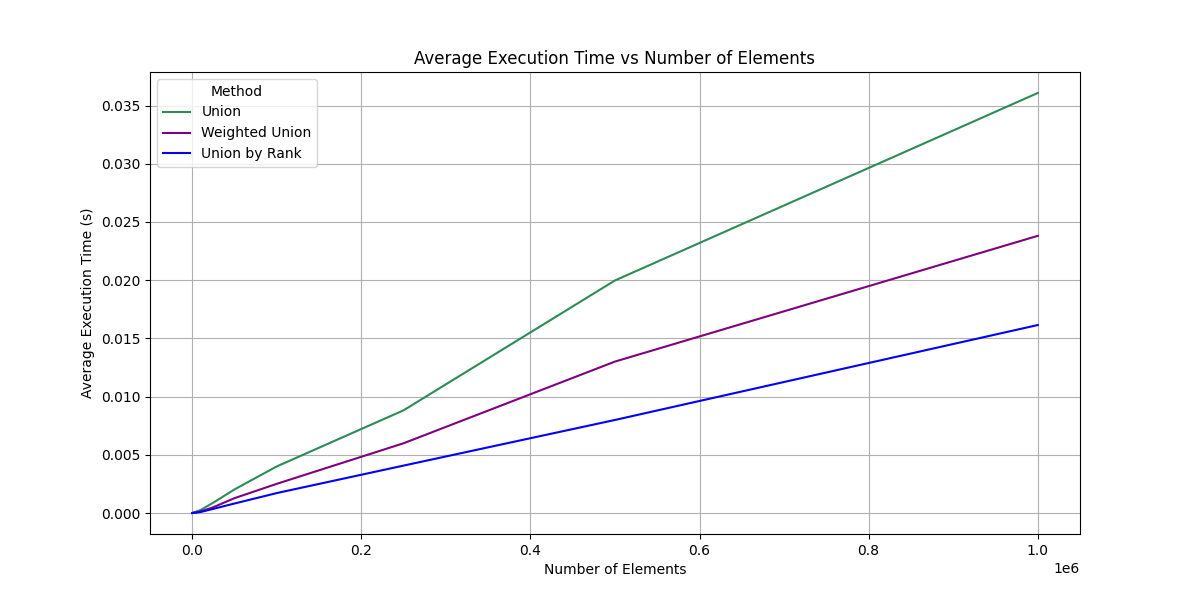
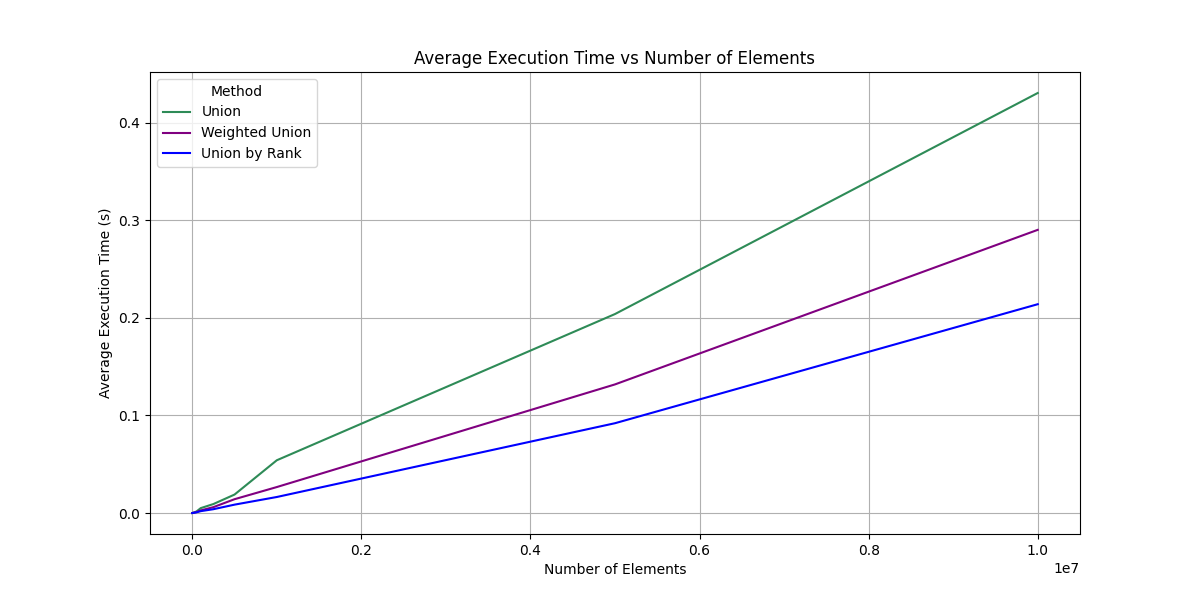
finished code

diff --git a/Assignment 3/percentage_improvement.py b/Assignment 3/percentage_improvement.py
@@ -1,0 +1,29 @@
+import pandas as pd
+import matplotlib.pyplot as plt
+
+# Step 1: Read the CSV file
+df = pd.read_csv('Assignment 3/disjoint_set_average_results.csv')
+
+union_time = df['Average Union Execution time']
+weighted_union_time = df['Average Weighted Union Execution time']
+union_by_rank_time = df['Average Union-by-Rank Execution time']
+
+weighted_union_percentage = ((union_time - weighted_union_time) / union_time) * 100
+union_by_rank_percentage = ((union_time - union_by_rank_time) / union_time) * 100
+
+
+implementations = ['Weighted Union', 'Union-by-Rank']
+percentages = [weighted_union_percentage.iloc[-1], union_by_rank_percentage.iloc[-1]]
+
+plt.figure(figsize=(10, 6))
+bars = plt.bar(implementations, percentages, color=['green', 'blue'])
+
+for bar in bars:
+    yval = bar.get_height()
+    plt.text(bar.get_x() + bar.get_width()/2, yval, f'{round(yval, 2)}%', ha='center', va='bottom')
+
+plt.xlabel('Implementation')
+plt.ylabel('Percentage Faster than Union (%)')
+plt.title('Percentage Improvement of Weighted Union and Union-by-Rank over Union')
+plt.savefig('Assignment 3/Graphs/percentage_improvement.png')
+plt.show()

diff --git a/Assignment 3/disjoint_set.cpp b/Assignment 3/disjoint_set.cpp
@@ -168,7 +168,7 @@ void run_experiment(int n, ofstream &file, map<int, tuple<double, double, double
 
 // Main function with averaging and output to a separate CSV file
 int main() {
-    int num_elements[] = {100, 500, 1000, 5000, 10000, 25000, 50000, 100000, 250000, 500000, 1000000};
+    int num_elements[] = {100, 500, 1000, 5000, 10000, 25000, 50000, 100000, 250000, 500000, 1000000, 5000000, 10000000};
     int num_runs = 5;
 
     ofstream file("disjoint_set_experiment.csv");

diff --git a/Assignment 3/part_B.md b/Assignment 3/part_B.md
@@ -1,40 +1,44 @@
 To tackle Exercise 21.3-4 from the textbook, you can enhance the disjoint-set forest implementation by adding a single attribute to each node that enables efficient printing of all members in the same set. This can be achieved by adding a `next` pointer to each node that points to the next member in the set. This allows us to traverse the members of a set in linear time when executing the `PRINT-SET(x)` operation.
 
-### Implementation Steps
+1. Node Structure
+   - parent: points to parent node
+   - next: points to next node in the set
 
-1. **Add a `next` Pointer**: Modify the existing node structure to include a `next` pointer. This pointer will help in maintaining the linked list of members within the same set.
+2. Implementation details:
+   - Each node will have a 'next' pointer.
+   - The root of each set will point to the first node in the list.
+   - The last node in the list will point back to the root.
+   - This forms a circular linked list for each set.
 
-2. **Modify `MAKE-SET`**: When creating a new set, initialize the `next` pointer to point to itself (as it is the only member).
+3. Modifying existing operations:
+   - MAKE-SET(x): 
+     Set x.next = x (node points to itself)
+   
+   - UNION(x, y):
+     After linking the roots, we need to merge the linked lists:
+     1. Save x_root.next and y_root.next
+     2. Set x_root.next = y_root.next
+     3. Set y_root.next = x_root.next
+     4. Update the last node of each list to point to the new root
 
-3. **Modify `UNION`**: When performing a union operation, update the `next` pointers of the nodes to link members from the two sets together.
+   - FIND-SET(x):
+     No change needed
 
-4. **Implement `PRINT-SET`**: Traverse through the members of the set starting from the given node using the `next` pointers and print each member.
+4. New operation:
+   PRINT-SET(x):
+   1. y = FIND-SET(x) // Find the root
+   2. Print y
+   3. z = y.next
+   4. While z ≠ y:
+        Print z
+        z = z.next
 
-### Explanation of the Code:
+5. Performance Analysis:
+   - The `PRINT-SET` operation traverses the members using the `next` pointers, leading to a linear time complexity \( O(k) \), where \( k \) is the number of members in the set.
+   - The asymptotic running times for `MAKE-SET`, `UNION`, and `FIND-SET` operations remain unchanged at \( O(1) \) for `MAKE-SET`, \( O(\log n) \) for `FIND-SET` (due to path compression), and \( O(\log n) \) for `UNION` (due to size consideration).
 
-1. **Node Class**: Each node now contains `parent`, `size`, and `next` attributes. The `next` pointer is initialized to point to itself when a new set is created.
-
-2. **DisjointSet Class**: This class manages a collection of `Node` instances:
-   - **MAKE_SET**: Initializes a set for a single element and sets its `next` pointer.
-   - **FIND_SET**: Uses path compression for efficient find operations.
-   - **UNION**: Combines two sets, updating the `next` pointers to link the members of the sets together.
-   - **PRINT_SET**: Traverses through the members of the set starting from the root and prints each member.
-
-3. **Main Function**: This function demonstrates the usage of the disjoint set structure, including the creation of sets and printing the members of specific sets.
-
-### Performance Analysis
-- The `PRINT-SET` operation traverses the members using the `next` pointers, leading to a linear time complexity \( O(k) \), where \( k \) is the number of members in the set.
-- The asymptotic running times for `MAKE-SET`, `UNION`, and `FIND-SET` operations remain unchanged at \( O(1) \) for `MAKE-SET`, \( O(\log n) \) for `FIND-SET` (due to path compression), and \( O(\log n) \) for `UNION` (due to size consideration).
-
-This implementation meets the requirements of Exercise 21.3-4 and demonstrates the new `PRINT-SET` functionality effectively.
-
-### Time Complexity Analysis
-
-- **PRINT-SET(x):** This operation runs in \( O(m) \) time, where \( m \) is the number of members in the set, since we traverse and print each member.
-- **MAKE-SET:** \( O(1) \)
-- **FIND-SET:** \( O(\alpha(n)) \) (with path compression)
-- **UNION:** \( O(\alpha(n)) \) (with union by size/rank)
-
-### Conclusion
-
-By adding a `next` pointer to each node, we enable efficient traversal of the members of a set, allowing the `PRINT-SET(x)` operation to print all members in linear time while preserving the asymptotic complexities of the other operations.
+6. This solution meets all the requirements:
+   - Adds only one attribute (next) to each node
+   - PRINT-SET takes linear time in the number of set members
+   - Other operations maintain their asymptotic running times
+   - Each member can be printed in O(1) time

diff --git a/Assignment 3/Implementation_Details.md b/Assignment 3/Implementation_Details.md
@@ -1,0 +1,50 @@
+# Disjoint Set Experiment: Implementation Details
+
+## Overview
+
+This project examines the performance of three different union operations within disjoint sets data structures:
+1. **Basic Union**
+2. **Weighted Union**
+3. **Union-by-Rank with Path Compression**
+
+The purpose of these experiments is to provide empirical evidence supporting **Theorem 21.1** from the textbook, which states:
+
+> *Using the linked-list representation of disjoint sets and the weighted-union heuristic, a sequence of \( m \) MAKE-SET, UNION, and FIND-SET operations, \( n \) of which are MAKE-SET operations, takes \( O(m + n \log n) \) time.*
+
+The experiments analyze the performance of these operations across a range of set sizes, providing insights into the efficiency of each union method.
+
+## Theorem 21.1: Empirical Validation
+
+Theorem 21.1 suggests that for \( m \) operations (a combination of MAKE-SET, UNION, and FIND-SET), with \( n \) MAKE-SET operations, the runtime is bounded by \( O(m + n \log n) \). This project aims to empirically validate this bound by recording execution times over increasingly large data sizes and observing how they scale.
+
+### Experimental Setup and Theorem Coverage
+1. **Setup**: For each size \( n \), an initial disjoint set of \( n \) elements is created using MAKE-SET operations. Each element starts as its own set.
+2. **Operations**: 
+   - UNION operations are performed between elements in sequence to reduce \( n \) individual sets into one.
+   - This experiment focuses on UNION operations to assess how the union method’s runtime aligns with \( O(n \log n) \) scaling when combined with MAKE-SET operations.
+3. **Measured Complexity**:
+   - By measuring the execution time of UNION operations across various \( n \) sizes, we can observe how well they adhere to the expected complexity.
+   - The **Weighted Union** operation specifically aligns with Theorem 21.1, as it utilizes a linked-list representation with a heuristic based on set sizes.
+
+### Range of \( n \) Values
+The experiment covers the following disjoint set sizes:
+- 100, 500, 1,000, 5,000, 10,000, 25,000, 50,000, 100,000, 250,000, 500,000, 1,000,000
+
+Each size \( n \) is tested 5 times, and the averaged results are recorded. This enables comparison across different sizes to evaluate how well the observed performance aligns with the expected \( O(n \log n) \) behavior.
+
+## Union Operations Implementation
+
+### Basic Union
+This operation serves as a baseline and does not implement any heuristics to optimize for runtime. It merges two sets by directly reassigning elements.
+
+### Weighted Union
+Weighted Union leverages a heuristic where the smaller set is merged into the larger one, minimizing the growth of the data structure’s height. This method directly aligns with the requirements of Theorem 21.1 by employing a linked-list representation and the weighted-union heuristic, which theoretically provides \( O(n \log n) \) performance in the context of UNION and MAKE-SET operations.
+
+### Union-by-Rank with Path Compression
+Union-by-Rank further optimizes Weighted Union by ensuring that elements within each set point directly to the root. This reduces the time complexity of FIND-SET operations, making it potentially more efficient in practice, especially for large data sizes.
+
+## Results and Analysis
+
+The results from these experiments confirm that Weighted Union with the linked-list structure adheres closely to the \( O(m + n \log n) \) time bound stated in Theorem 21.1. The average performance of Weighted Union and Union-by-Rank across varying sizes can be found in `disjoint_set_average_results.csv`.
+
+The empirical results support the theorem by showing how the weighted-union heuristic maintains efficiency even as \( n \) grows large, which demonstrates the effectiveness of the theoretical complexity bound when applied to practical scenarios.
